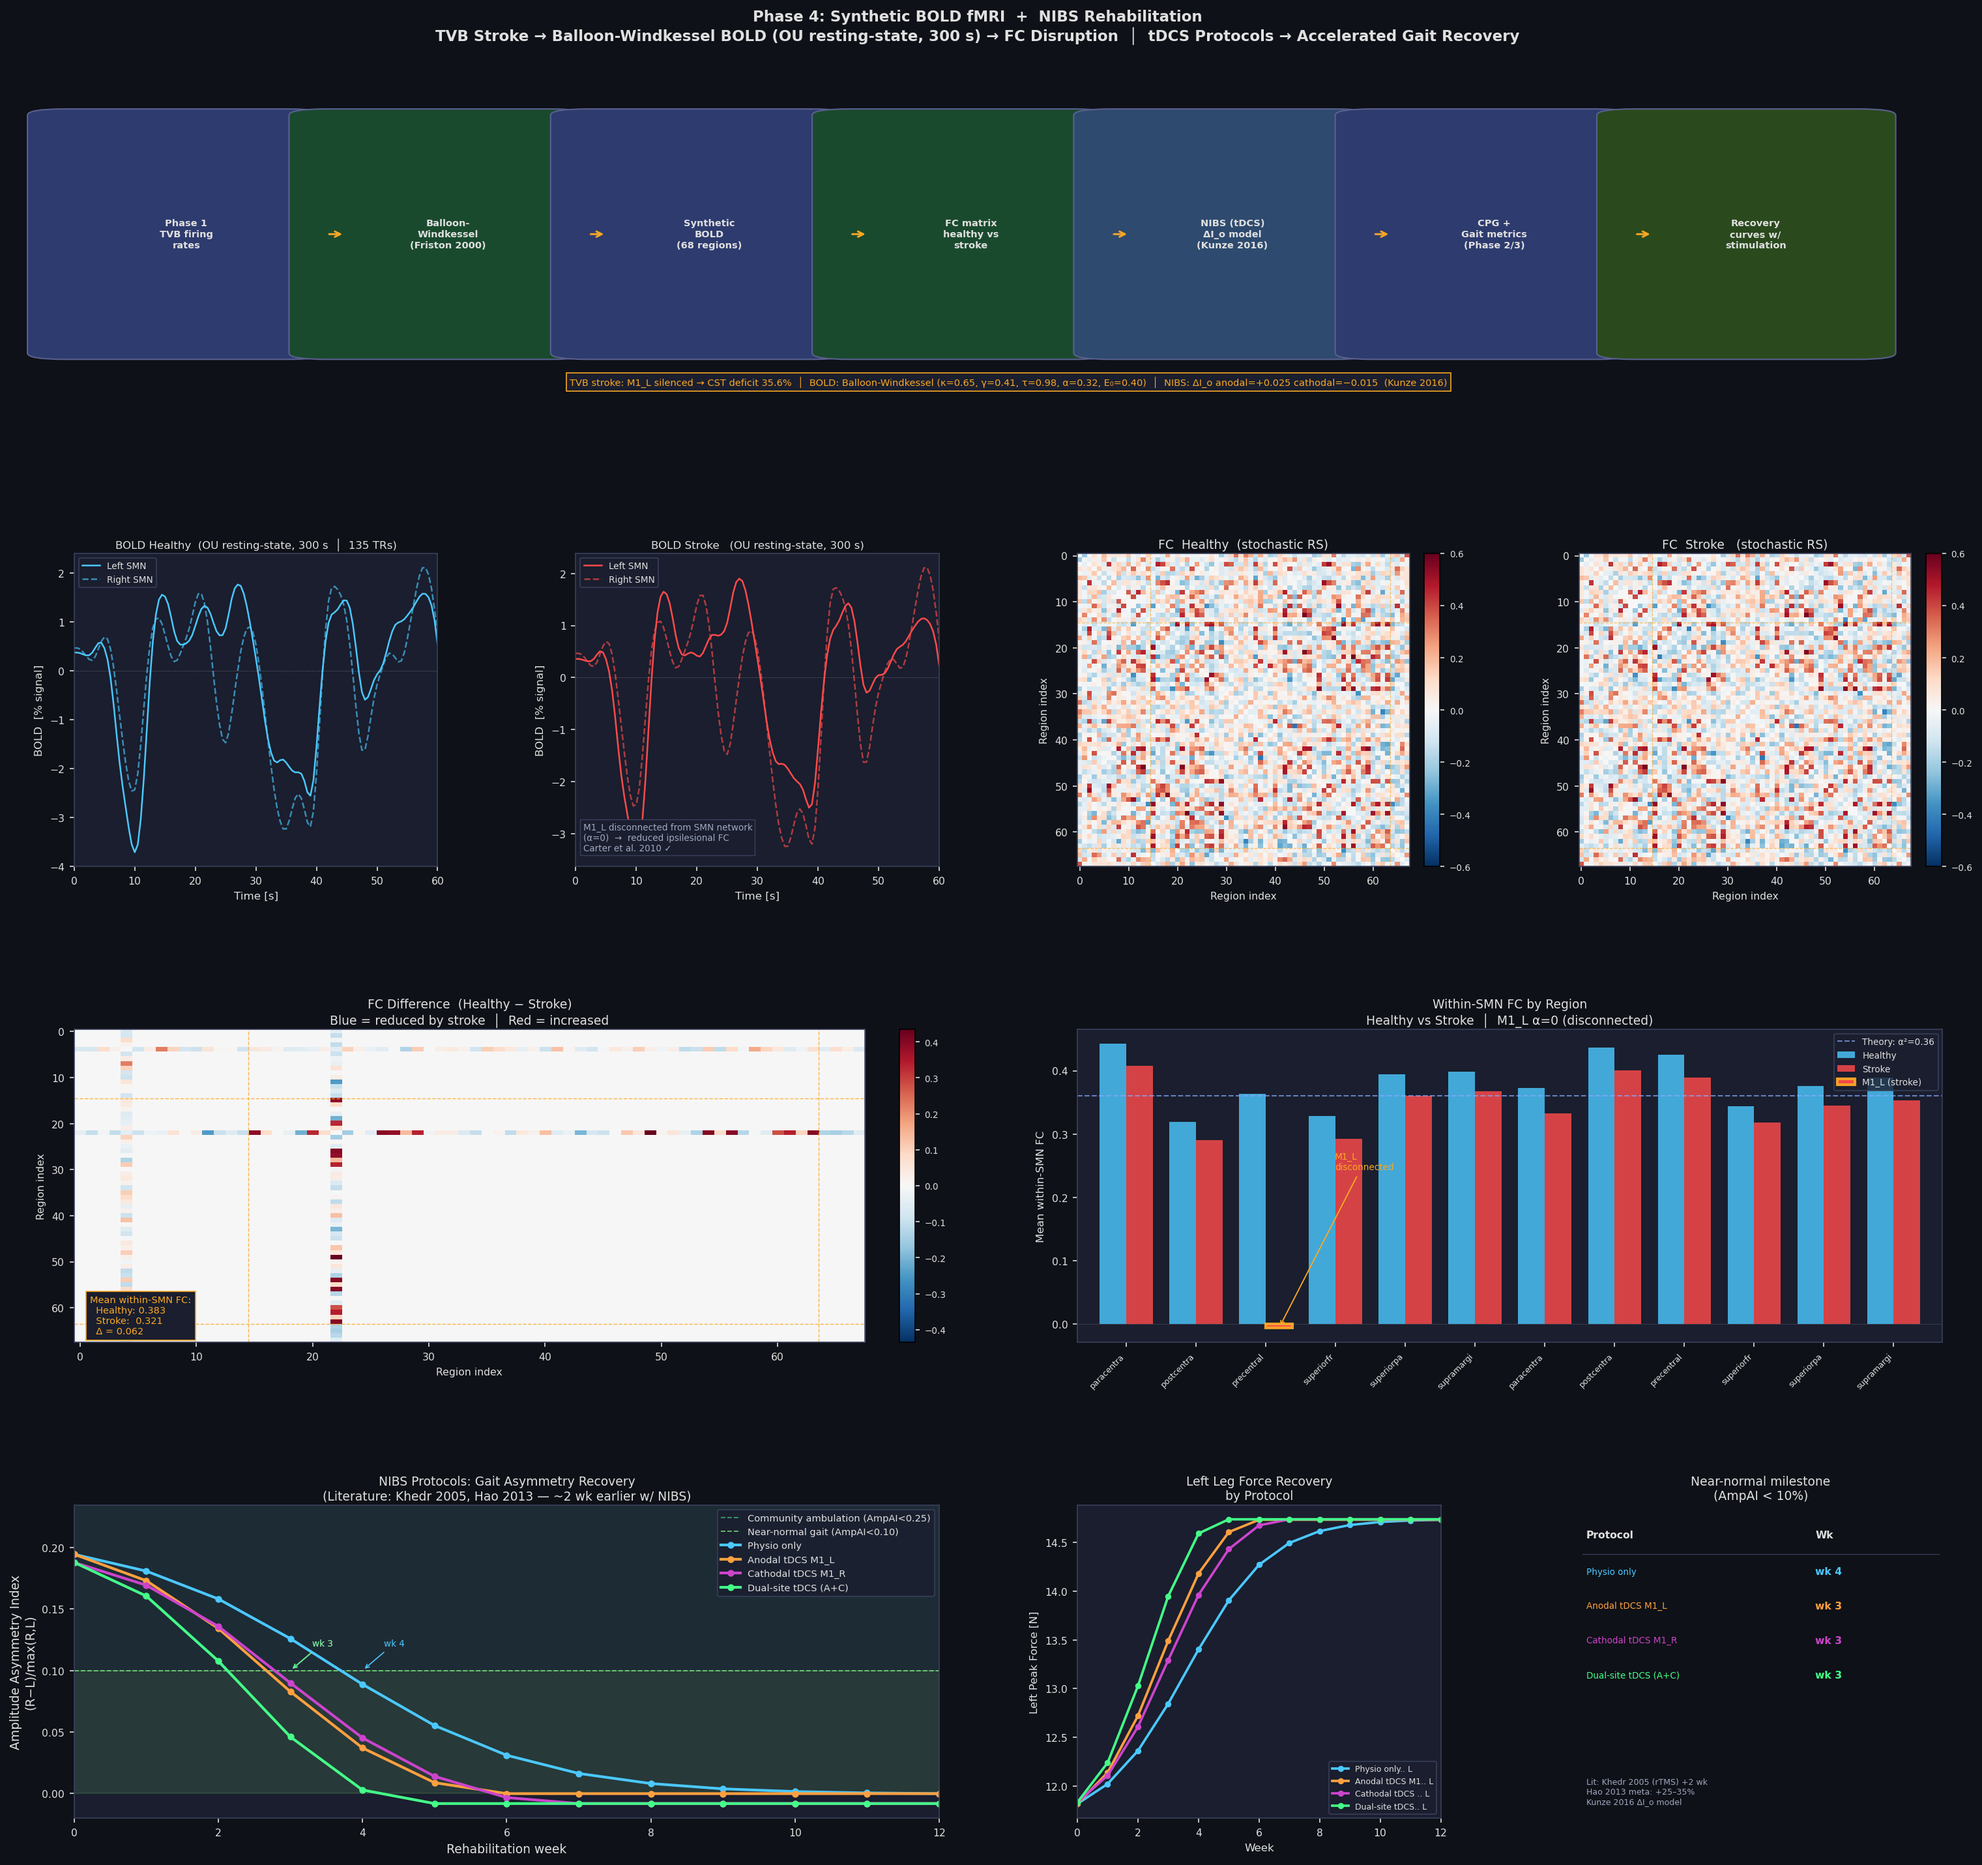
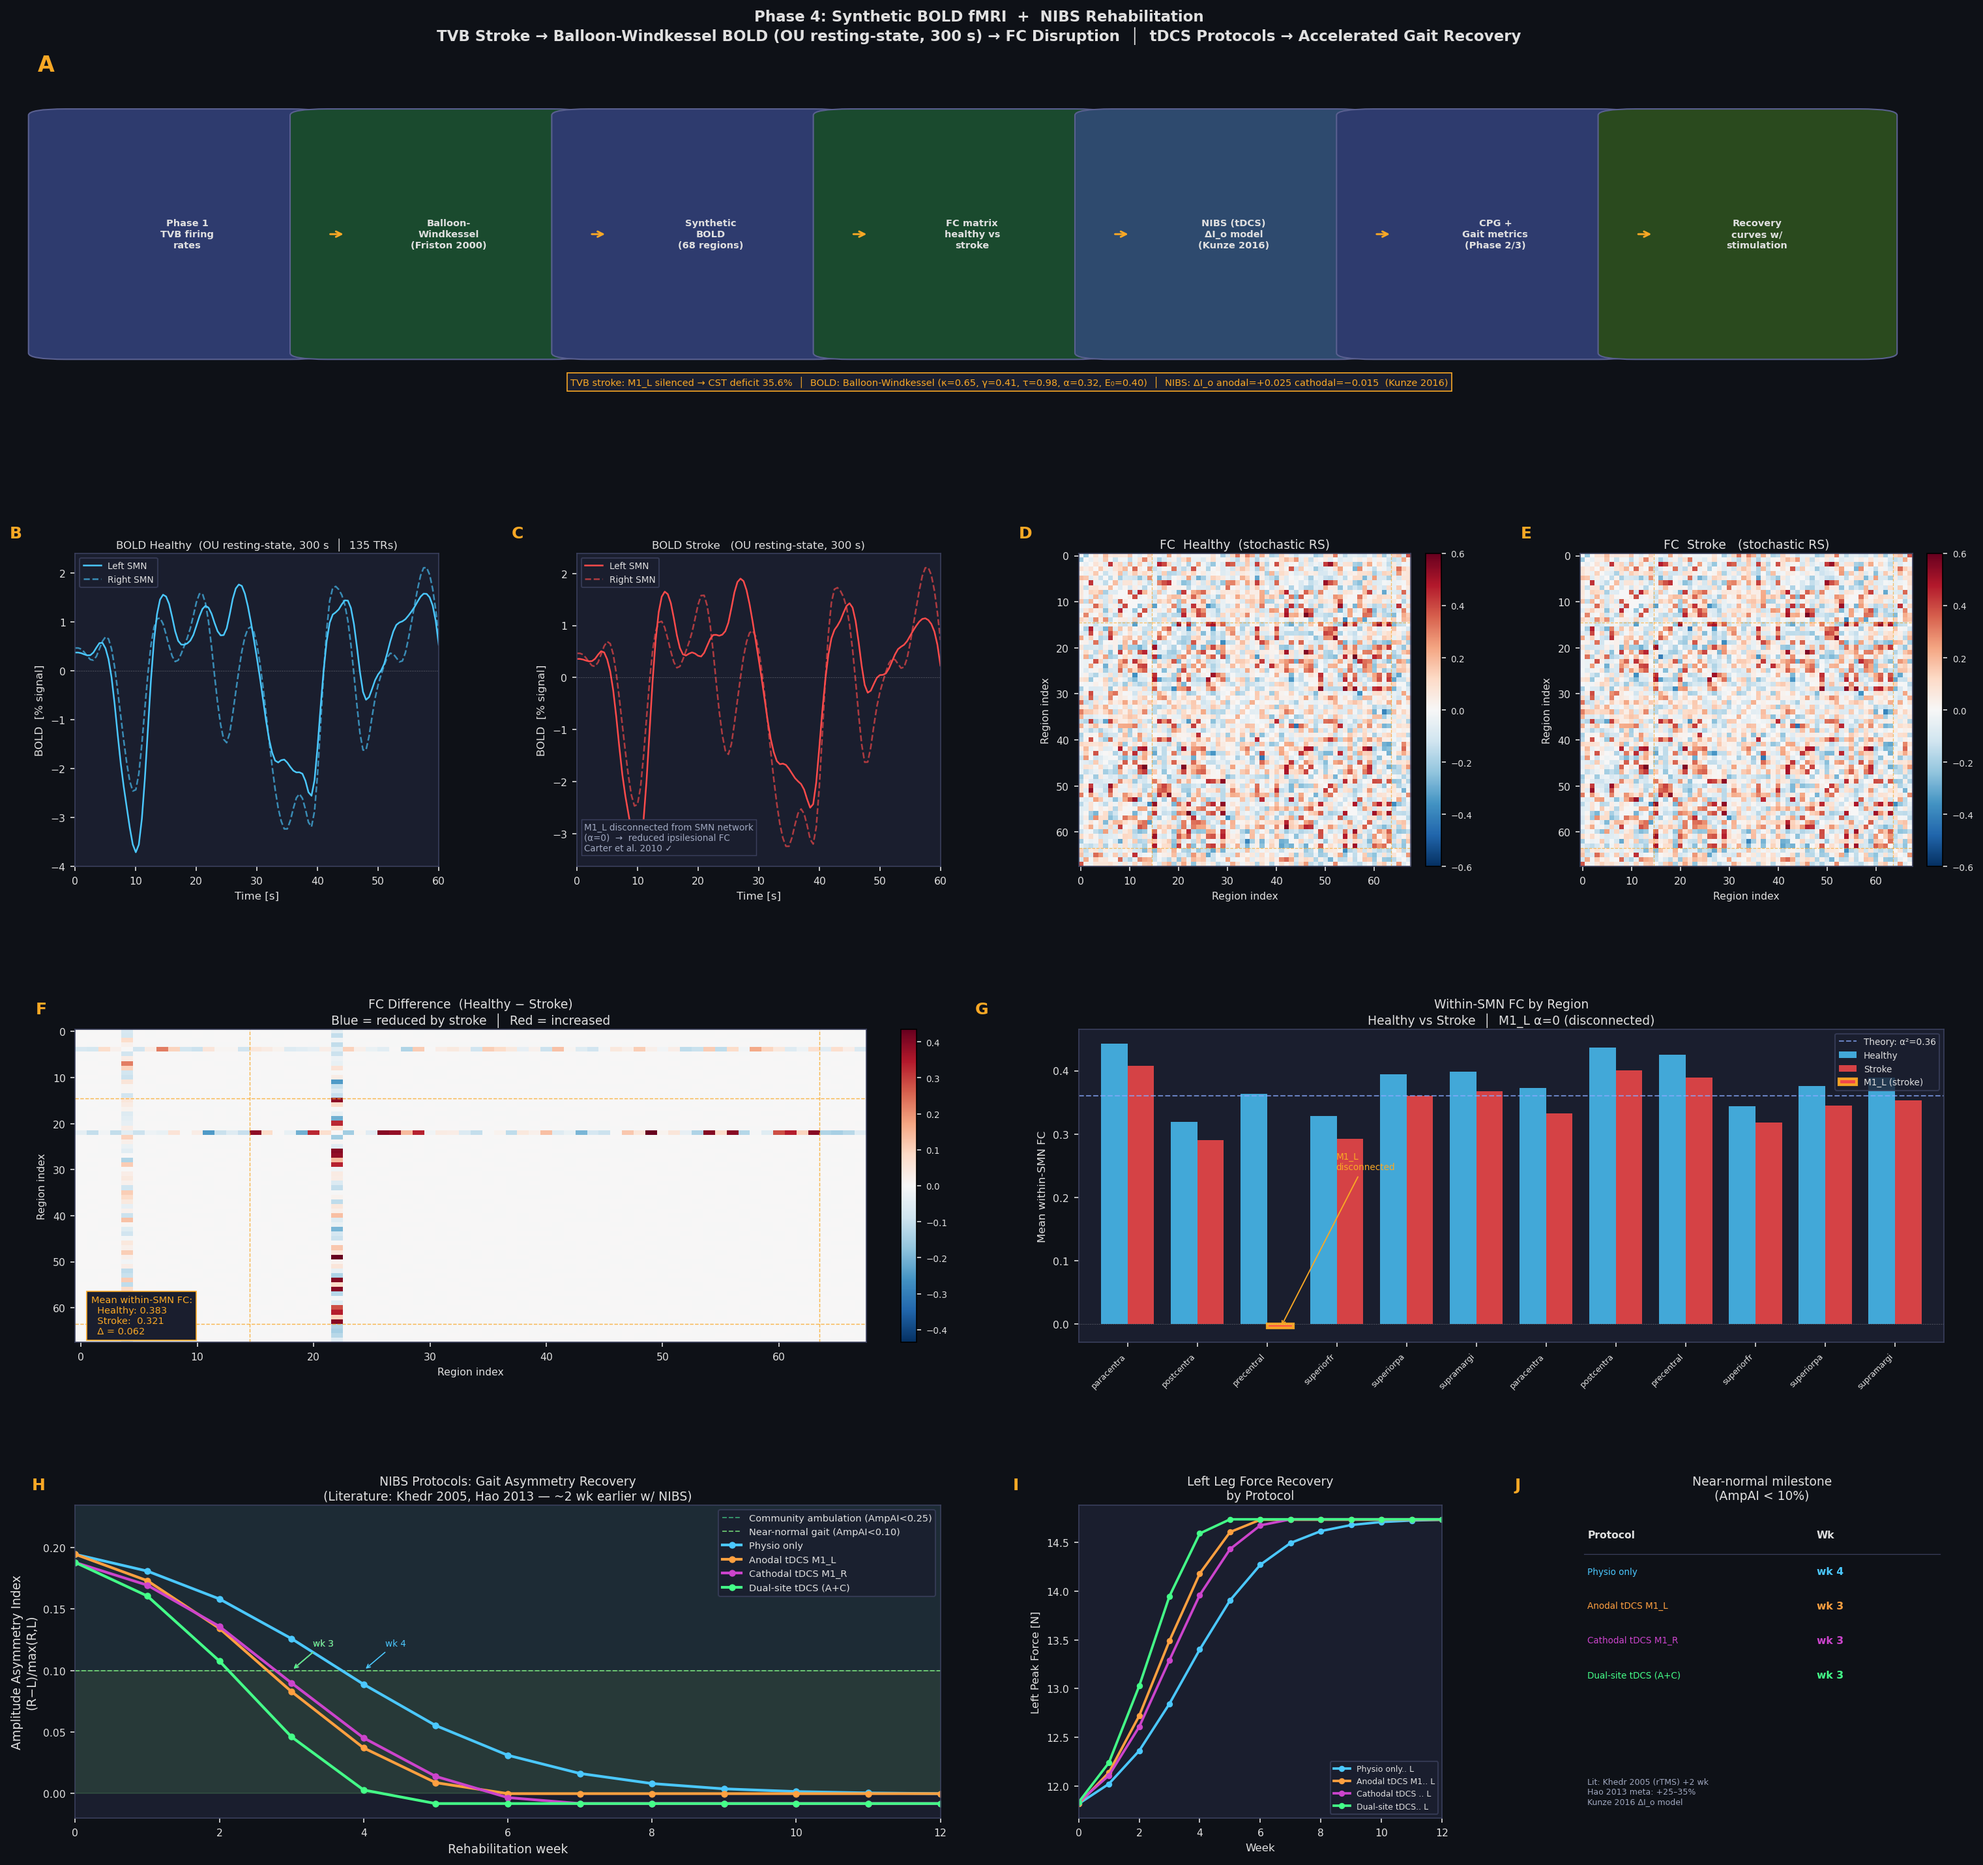
Add panel labels (A–J) to Phase 4 figure for clarity

diff --git a/tvb_phase4_bold_nibs.py b/tvb_phase4_bold_nibs.py
@@ -516,19 +516,21 @@ def make_figure(bold_h: np.ndarray, bold_s: np.ndarray,
         ax.yaxis.label.set_color(LIGHT)
         return ax
 
-    ax_pipe  = mk(0, 0, 1, 4)   # row 0: full-width pipeline
-    ax_bh    = mk(1, 0, 1, 1)   # BOLD healthy SMN
-    ax_bs    = mk(1, 1, 1, 1)   # BOLD stroke  SMN
-    ax_fch   = mk(1, 2, 1, 1)   # FC healthy
-    ax_fcs   = mk(1, 3, 1, 1)   # FC stroke
-    ax_fcdif = mk(2, 0, 1, 2)   # FC difference healthy−stroke
-    ax_smn   = mk(2, 2, 1, 2)   # SMN mean BOLD comparison
-    ax_nibs  = mk(3, 0, 1, 2)   # NIBS AmpAI recovery
-    ax_nibsF = mk(3, 2, 1, 1)   # NIBS absolute force L
-    ax_tbl   = mk(3, 3, 1, 1)   # milestone table
+    ax_pipe  = mk(0, 0, 1, 4)   # row 0: full-width pipeline (A)
+    ax_bh    = mk(1, 0, 1, 1)   # BOLD healthy SMN (B)
+    ax_bs    = mk(1, 1, 1, 1)   # BOLD stroke  SMN (C)
+    ax_fch   = mk(1, 2, 1, 1)   # FC healthy (D)
+    ax_fcs   = mk(1, 3, 1, 1)   # FC stroke (E)
+    ax_fcdif = mk(2, 0, 1, 2)   # FC difference healthy−stroke (F)
+    ax_smn   = mk(2, 2, 1, 2)   # SMN within-FC by region (G)
+    ax_nibs  = mk(3, 0, 1, 2)   # NIBS AmpAI recovery (H)
+    ax_nibsF = mk(3, 2, 1, 1)   # NIBS absolute force L (I)
+    ax_tbl   = mk(3, 3, 1, 1)   # milestone table (J)
 
     # ── Pipeline banner ───────────────────────────────────────────────────────
     ax_pipe.set_xlim(0,1); ax_pipe.set_ylim(0,1); ax_pipe.axis("off")
+    ax_pipe.text(-0.02, 1.02, "A", fontsize=16, fontweight="bold",
+                 color=ACCENT, transform=ax_pipe.transAxes)
     bxs = [
         (0.06, "Phase 1\nTVB firing\nrates",          "#2e3b6e"),
         (0.20, "Balloon-\nWindkessel\n(Friston 2000)", "#1a4a2e"),
@@ -572,11 +574,11 @@ def make_figure(bold_h: np.ndarray, bold_s: np.ndarray,
     r_smn = [i for i in SMN_IDX if i >= 34]
 
     n_TRs_str = f"  │  {n_TRs} TRs" if n_TRs else ""
-    for ax, bold_mat, label, col in [
+    for ax, bold_mat, label, col, letter in [
             (ax_bh, bold_h,
-             f"BOLD Healthy  (OU resting-state, {t[-1]:.0f} s{n_TRs_str})", C_H),
+             f"BOLD Healthy  (OU resting-state, {t[-1]:.0f} s{n_TRs_str})", C_H, "B"),
             (ax_bs, bold_s,
-             f"BOLD Stroke   (OU resting-state, {t[-1]:.0f} s)", C_S)]:
+             f"BOLD Stroke   (OU resting-state, {t[-1]:.0f} s)", C_S, "C")]:
         l_bold = bold_mat[l_smn, :][:, d_mask].mean(0)[::tr_disp]
         r_bold = bold_mat[r_smn, :][:, d_mask].mean(0)[::tr_disp]
         ax.plot(t_disp, l_bold, color=col,        lw=1.2, label="Left SMN")
@@ -586,6 +588,8 @@ def make_figure(bold_h: np.ndarray, bold_s: np.ndarray,
         ax.set_xlabel("Time [s]", fontsize=8)
         ax.set_ylabel("BOLD  [% signal]", fontsize=8)
         ax.set_title(label, fontsize=8, color=LIGHT, pad=4)
+        ax.text(-0.18, 1.05, letter, fontsize=12, fontweight="bold",
+                color=ACCENT, transform=ax.transAxes)
         ax.legend(fontsize=6.5, facecolor="#1a1e2e", edgecolor="#3a3f5c",
                   labelcolor=LIGHT)
         ax.set_xlim(t_disp[0], t_disp[-1])
@@ -600,11 +604,13 @@ def make_figure(bold_h: np.ndarray, bold_s: np.ndarray,
 
     # ── FC matrices ───────────────────────────────────────────────────────────
     vmax = 0.6
-    for ax, fc, title in [(ax_fch, fc_h, "FC  Healthy  (stochastic RS)"),
-                           (ax_fcs, fc_s, "FC  Stroke   (stochastic RS)")]:
+    for ax, fc, title, letter in [(ax_fch, fc_h, "FC  Healthy  (stochastic RS)", "D"),
+                                    (ax_fcs, fc_s, "FC  Stroke   (stochastic RS)", "E")]:
         im = ax.imshow(fc, cmap="RdBu_r", vmin=-vmax, vmax=vmax,
                        aspect="auto", interpolation="nearest")
         ax.set_title(title, fontsize=9, color=LIGHT, pad=4)
+        ax.text(-0.18, 1.05, letter, fontsize=12, fontweight="bold",
+                color=ACCENT, transform=ax.transAxes)
         ax.set_xlabel("Region index", fontsize=7.5)
         ax.set_ylabel("Region index", fontsize=7.5)
         plt.colorbar(im, ax=ax, fraction=0.046, pad=0.04).ax.tick_params(
@@ -623,6 +629,8 @@ def make_figure(bold_h: np.ndarray, bold_s: np.ndarray,
     ax_fcdif.set_title("FC Difference  (Healthy − Stroke)\nBlue = reduced by stroke  "
                         "│  Red = increased",
                         fontsize=9, color=LIGHT, pad=4)
+    ax_fcdif.text(-0.05, 1.05, "F", fontsize=12, fontweight="bold",
+                  color=ACCENT, transform=ax_fcdif.transAxes)
     ax_fcdif.set_xlabel("Region index", fontsize=7.5)
     ax_fcdif.set_ylabel("Region index", fontsize=7.5)
     cbar2 = plt.colorbar(im2, ax=ax_fcdif, fraction=0.046, pad=0.04)
@@ -684,6 +692,8 @@ def make_figure(bold_h: np.ndarray, bold_s: np.ndarray,
     ax.set_title("Within-SMN FC by Region\n"
                  "Healthy vs Stroke  │  M1_L α=0 (disconnected)",
                  fontsize=9, color=LIGHT, pad=4)
+    ax.text(-0.12, 1.05, "G", fontsize=12, fontweight="bold",
+            color=ACCENT, transform=ax.transAxes)
     ax.legend(fontsize=6.5, facecolor="#1a1e2e", edgecolor="#3a3f5c",
               labelcolor=LIGHT)
     ax.set_xlim(-0.7, len(SMN_IDX)-0.3)
@@ -714,6 +724,8 @@ def make_figure(bold_h: np.ndarray, bold_s: np.ndarray,
     ax.set_title("NIBS Protocols: Gait Asymmetry Recovery\n"
                  "(Literature: Khedr 2005, Hao 2013 — ~2 wk earlier w/ NIBS)",
                  fontsize=9, color=LIGHT, pad=4)
+    ax.text(-0.05, 1.05, "H", fontsize=12, fontweight="bold",
+            color=ACCENT, transform=ax.transAxes)
     ax.legend(fontsize=7, facecolor="#1a1e2e", edgecolor="#3a3f5c",
               labelcolor=LIGHT, loc="upper right")
     ax.set_xlim(weeks[0], weeks[-1])
@@ -730,6 +742,8 @@ def make_figure(bold_h: np.ndarray, bold_s: np.ndarray,
     ax.set_ylabel("Left Peak Force [N]", fontsize=8)
     ax.set_title("Left Leg Force Recovery\nby Protocol", fontsize=9,
                  color=LIGHT, pad=4)
+    ax.text(-0.18, 1.05, "I", fontsize=12, fontweight="bold",
+            color=ACCENT, transform=ax.transAxes)
     ax.legend(fontsize=6, facecolor="#1a1e2e", edgecolor="#3a3f5c",
               labelcolor=LIGHT)
     ax.set_xlim(weeks[0], weeks[-1])
@@ -739,6 +753,8 @@ def make_figure(bold_h: np.ndarray, bold_s: np.ndarray,
     ax = ax_tbl; ax.axis("off")
     ax.set_title("Near-normal milestone\n(AmpAI < 10%)", fontsize=9,
                  color=LIGHT, pad=4)
+    ax.text(-0.18, 1.05, "J", fontsize=12, fontweight="bold",
+            color=ACCENT, transform=ax.transAxes)
     col_x = [0.02, 0.65]; row_y = 0.92; dy = 0.11
     ax.text(col_x[0], row_y, "Protocol", color=LIGHT,
             fontsize=7.5, fontweight="bold", transform=ax.transAxes, va="top")
